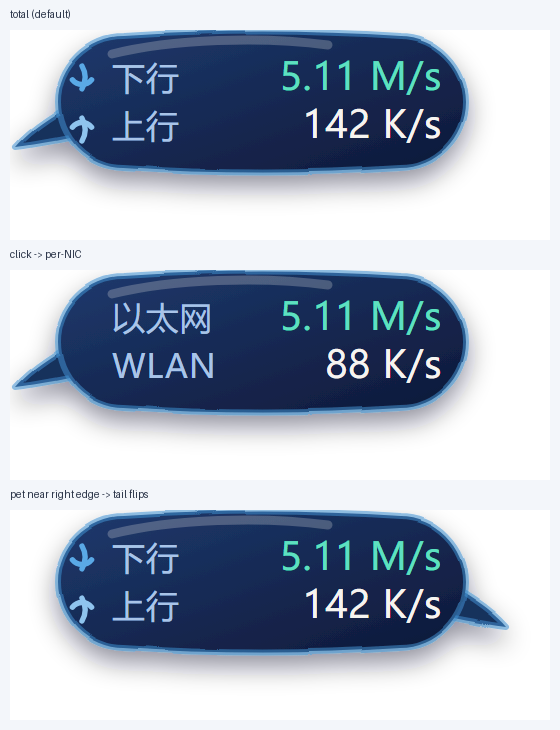
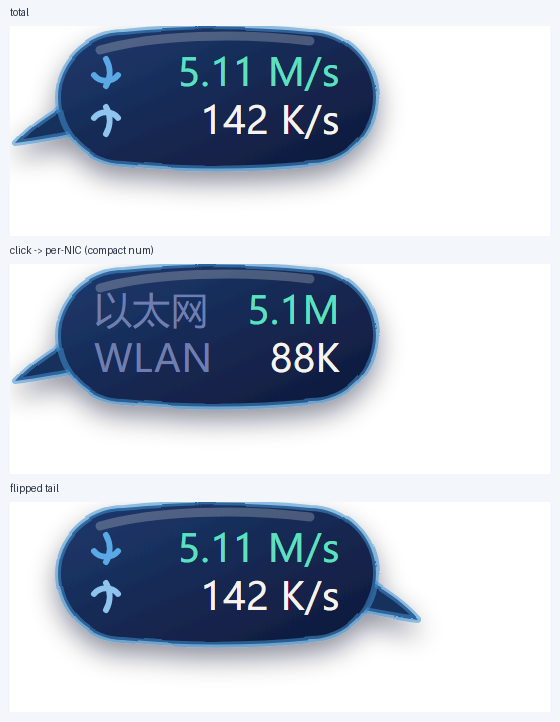
feat(pet): 网速气泡进一步紧凑化（卡 136→106，窗口 166→144）+ 修明细模式重叠与黑字 bug
用户反馈网速气泡仍太长、内容不紧凑。实测：卡片 136 宽，内容（下行↓53 K/s）只占约 73px，中段空掉约 39px —— 与余量气泡同一个病：宽度没贴合内容 + 有冗余文字标签。

改法：
- 去掉「下行/上行」文字标签：弧形箭头（一上一下）+ 青/蓝紫配色已完整表达方向，
  也是各类系统级网速挂件的通行做法。省掉 22px 标签 + 8px 间距
- 卡片 136 → 106（106 宽内可用约 66px，'99.90 M/s'(64px，覆盖约 800Mbps) 刚好放得下）
- 窗口 NET_WIN_W_LP 166 → 144（卡 106 + 左右各 14px 尾巴让位）
- 数值仍右对齐 → 位数变化时列位置稳定，不会左右跳
- 新增 fitVals()：数值超长自动降字号兜底（>800Mbps 的极端值）

修两个真 bug：
- 明细模式下『以太网』与『5.11 M/s』重叠 7px → 明细模式改用紧凑格式 fmtShort()
  （5.1M / 88K / 0K，最长约 32px），网卡名保留 4 字，两者仍有 18px 间距
- 明细模式的网卡名槽用 show() 切换会把 class 整个清空 → 文字掉回默认黑色；
  改用 showName()，可见时 class='v dim'、隐藏时 class='hide'

顺手清掉一个历史编译警告（json_response 的冗余 mut），现在构建零警告。

验证：net-fmt-test.cjs 38 项全绿；pet-engine-test.cjs 48 项全绿；
无头 Chromium 渲染三态确认（重叠就是靠预览图一眼看出来的，断言发现不了）；
优雅 /api/quit 停止应用（全程未强杀）。

diff --git a/public/net.html b/public/net.html
@@ -1,16 +1,15 @@
 <!doctype html>
-<!-- net-ver: 2026-09-18-02-anime -->
+<!-- net-ver: 2026-09-18-03-compact -->
 <html>
 <head>
 <meta charset="utf-8">
 <style>
   html,body{margin:0;padding:0;background:transparent;overflow:hidden;user-select:none}
-  /* 窗口仍是 166x56：尾巴是横向伸出的，所以不占垂直空间 —— 无需重编译 */
-  #wrap{position:absolute;left:0;top:0;width:166px;height:56px;cursor:pointer}
+  /* 窗口 144x56：卡 106x44 + 左右各 14px 尾巴让位（翻边时用另一侧） */
+  #wrap{position:absolute;left:0;top:0;width:144px;height:56px;cursor:pointer}
   /* overflow:visible 才能让阴影/抖动溢出 SVG 盒子而不被裁掉 */
   #wrap svg{display:block;overflow:visible}
   /* SVG 文字要用 fill（用 color 不生效） */
-  .k{fill:#A9C4E8;font:11px "Microsoft YaHei",sans-serif;letter-spacing:.02em}
   .v{fill:#F7F4F0;font:500 12.5px "Microsoft YaHei",sans-serif;letter-spacing:.02em;
     font-variant-numeric:tabular-nums}
   .v.dim{fill:#6F7EAD;font-weight:400}
@@ -20,44 +19,46 @@
 </head>
 <body>
 <div id="wrap">
-  <!-- 卡 136x44 饱满椭圆（两端全圆 r=22 + 上下缘微鼓）+ 左侧锥形曲线尾（朝宠物） -->
-  <svg id="netSvg" viewBox="0 0 166 56" width="166" height="56" role="img">
+  <!-- 卡 106x44 饱满椭圆（两端全圆 r=22 + 上下缘微鼓）+ 锥形曲线尾
+       不再放「下行/上行」文字：弧形箭头 + 青/蓝紫配色已经区分上下行，
+       去掉标签后卡片从 136 收到 106，中段空档从 ~39px 降到 ~26px -->
+  <svg id="netSvg" viewBox="0 0 144 56" width="144" height="56" role="img">
     <title id="netTip"></title>
     <defs>
       <linearGradient id="netGA" x1="0" y1="0" x2="1" y2="1">
         <stop offset="0" stop-color="#1E3A6E"/><stop offset="1" stop-color="#0E1838"/>
       </linearGradient>
-      <filter id="netInk" x="-16%" y="-34%" width="132%" height="176%">
+      <filter id="netInk" x="-18%" y="-34%" width="136%" height="176%">
         <feTurbulence type="fractalNoise" baseFrequency="0.022 0.03" numOctaves="2" seed="7" result="n"/>
         <feDisplacementMap in="SourceGraphic" in2="n" scale="2.4" xChannelSelector="R" yChannelSelector="G"/>
       </filter>
-      <filter id="netSh" x="-22%" y="-46%" width="144%" height="196%">
+      <filter id="netSh" x="-24%" y="-46%" width="148%" height="196%">
         <feDropShadow dx="0" dy="4" stdDeviation="4.5" flood-color="#060A20" flood-opacity="0.45"/>
       </filter>
     </defs>
     <g filter="url(#netSh)"><g filter="url(#netInk)">
       <path id="tailL" d="M30 20 C18 26 8 32 2 39 C10 38 20 36 30 34 Z"
             fill="#17305C" stroke="#4090D0" stroke-opacity="0.55" stroke-width="2" stroke-linejoin="round"/>
-      <path id="tailR" class="hide" d="M138 20 C150 26 160 32 166 39 C158 38 148 36 138 34 Z"
+      <path id="tailR" class="hide" d="M108 20 C120 26 130 32 136 39 C128 38 118 36 108 34 Z"
             fill="#17305C" stroke="#4090D0" stroke-opacity="0.55" stroke-width="2" stroke-linejoin="round"/>
-      <path d="M38 2 C68 0 100 0 130 2 C142 2 152 12 152 24 C152 36 142 46 130 46
-               C100 48 68 48 38 46 C26 46 16 36 16 24 C16 12 26 2 38 2 Z"
+      <path d="M38 2 C58 0 80 0 100 2 C112 2 122 12 122 24 C122 36 112 46 100 46
+               C80 48 58 48 38 46 C26 46 16 36 16 24 C16 12 26 2 38 2 Z"
             fill="url(#netGA)" stroke="#4090D0" stroke-opacity="0.55" stroke-width="2" stroke-linejoin="round"/>
     </g></g>
     <!-- 月牙高光：沿内侧上缘的一道弧形笔触 -->
-    <path d="M34 8 C54 3 84 2 106 5" fill="none" stroke="#F7F4F0" stroke-opacity="0.24"
+    <path d="M30 8 C48 3 76 2 100 5" fill="none" stroke="#F7F4F0" stroke-opacity="0.24"
           stroke-width="3" stroke-linecap="round"/>
-    <!-- 弧形箭头：圆头曲线，取代带锐角的箭头字形 -->
-    <g id="arrows" fill="none" stroke-width="1.8" stroke-linecap="round">
-      <path d="M24 12 C25.4 14.4 25.4 17 24 19.6" stroke="#5AA9E6"/>
-      <path d="M20.8 16.6 C22.5 18.7 25.5 18.7 27.2 16.6" stroke="#5AA9E6"/>
-      <path d="M24 37 C25.4 34.6 25.4 32 24 29.4" stroke="#8FC4EE"/>
-      <path d="M20.8 32.4 C22.5 30.3 25.5 30.3 27.2 32.4" stroke="#8FC4EE"/>
+    <!-- 弧形箭头：圆头曲线，取代带锐角的箭头字形。它现在同时承担「指示方向」与「区分上下行」 -->
+    <g id="arrows" fill="none" stroke-width="2" stroke-linecap="round">
+      <path d="M32 11 C33.6 13.8 33.6 17.2 32 20" stroke="#5AA9E6"/>
+      <path d="M28 16.4 C30 18.9 34 18.9 36 16.4" stroke="#5AA9E6"/>
+      <path d="M32 36 C33.6 33.2 33.6 29.8 32 27" stroke="#8FC4EE"/>
+      <path d="M28 30.6 C30 28.1 34 28.1 36 30.6" stroke="#8FC4EE"/>
     </g>
-    <text class="k" id="lb1" x="34" y="20">下行</text>
-    <text class="v" id="vl1" x="144" y="20" text-anchor="end">—</text>
-    <text class="k" id="lb2" x="34" y="36">上行</text>
-    <text class="v" id="vl2" x="144" y="36" text-anchor="end">—</text>
+    <text class="v" id="vl1" x="110" y="20" text-anchor="end">—</text>
+    <text class="v" id="vl2" x="110" y="36" text-anchor="end">—</text>
+    <text class="v dim hide" id="nm1" x="28" y="20"></text>
+    <text class="v dim hide" id="nm2" x="28" y="36"></text>
   </svg>
 </div>
 <script>
@@ -69,8 +70,8 @@
   var arrows = document.getElementById('arrows');
   var tailL = document.getElementById('tailL');
   var tailR = document.getElementById('tailR');
-  var lb1 = document.getElementById('lb1'), vl1 = document.getElementById('vl1');
-  var lb2 = document.getElementById('lb2'), vl2 = document.getElementById('vl2');
+  var vl1 = document.getElementById('vl1'), vl2 = document.getElementById('vl2');
+  var nm1 = document.getElementById('nm1'), nm2 = document.getElementById('nm2');
 
   /* 值 → 文字。与 Rust 侧 fmt_speed 同口径（三位有效数字，防宽度跳动） */
   function fmt(bps) {
@@ -86,14 +87,48 @@
     if (bps < 8 * K) return ' dim';
     return bps >= 5 * K * K ? ' fast' : '';
   }
-  function setV(el, txt, cls) {
-    el.textContent = txt;
-    el.setAttribute('class', 'v' + cls);
+  /* 明细模式专用紧凑格式：卡片只有 106 宽，网卡名要占左边，
+     所以数值必须短（5.11 M/s → 5.1M），否则会和网卡名撞上 */
+  function fmtShort(bps) {
+    if (!isFinite(bps) || bps < 512) return '0K';
+    if (bps < K * K) return Math.round(bps / K) + 'K';
+    var mb = bps / K / K;
+    return (mb < 10 ? mb.toFixed(1) : String(Math.round(mb))) + 'M';
   }
-
   /* 测试缝：给 devtools/net-fmt-test.cjs 用来锁定显示口径（与 Rust fmt_speed 必须一致） */
   window.__netFmt = fmt;
   window.__netLevel = level;
+  window.__netFmtShort = fmtShort;
+
+  function setV(el, txt, cls) {
+    if (el.textContent !== txt) el.textContent = txt;
+    var c = 'v' + cls;
+    if (el.getAttribute('class') !== c) el.setAttribute('class', c);
+  }
+  function show(el, on) { el.setAttribute('class', on ? '' : 'hide'); }
+  /* 网卡名槽：可见时要带上 "v dim" 样式（show() 会把 class 清空 → 文字会掉回默认黑色） */
+  function showName(el, on, txt) {
+    if (el.textContent !== (txt || '')) el.textContent = txt || '';
+    var c = on ? 'v dim' : 'hide';
+    if (el.getAttribute('class') !== c) el.setAttribute('class', c);
+  }
+
+  /* 数值位数变化时自动缩字号，避免超出卡片（106 宽内可用约 66px） */
+  var lastFit = -1;
+  function fitVals() {
+    var MAXW = 66, need = 12.5;
+    [vl1, vl2].forEach(function (el) {
+      el.setAttribute('font-size', '12.5');
+      var w = 0;
+      try { w = el.getComputedTextLength(); } catch (e) { w = 0; }
+      if (w > MAXW) need = Math.min(need, 12.5 * MAXW / w);
+    });
+    need = Math.max(9, Math.round(need * 10) / 10);
+    if (need !== lastFit) {
+      lastFit = need;
+      [vl1, vl2].forEach(function (el) { el.setAttribute('font-size', String(need)); });
+    }
+  }
 
   /* 非对称 EMA：升快（0.5）降更快（0.7），否则下载结束后要好几秒才落到 0 */
   var emaD = null, emaU = null;
@@ -107,32 +142,35 @@
   var lastD = null, lastU = null;
 
   function render(d) {
-    // 翻到宠物左侧时尾巴要朝右
-    var left = (d.side === 'left');
-    tailL.setAttribute('class', left ? 'hide' : '');
-    tailR.setAttribute('class', left ? '' : 'hide');
+    var left = (d.side === 'left');   // 翻到宠物左侧时尾巴朝右
+    show(tailL, !left);
+    show(tailR, left);
 
-    if (mode === 'detail' && Array.isArray(d.ifaces) && d.ifaces.length) {
-      arrows.setAttribute('class', 'hide');
+    var detail = (mode === 'detail' && Array.isArray(d.ifaces) && d.ifaces.length);
+    show(arrows, !detail);
+
+    if (detail) {
       var a = d.ifaces[0], b = d.ifaces[1];
-      setV(vl1, a ? fmt(a.down) : '—', a ? level(a.down) : ' dim');
-      lb1.textContent = shortName(a);
-      if (b) { setV(vl2, fmt(b.down), level(b.down)); lb2.textContent = shortName(b); }
-      else { setV(vl2, '—', ' dim'); lb2.textContent = ''; }
-      return;
+      showName(nm1, true, shortName(a));
+      showName(nm2, true, shortName(b));
+      setV(vl1, a ? fmtShort(a.down) : '—', a ? level(a.down) : ' dim');
+      setV(vl2, b ? fmtShort(b.down) : '—', b ? level(b.down) : ' dim');
+    } else {
+      showName(nm1, false);
+      showName(nm2, false);
+      var blank = d.stale || d.warm;
+      setV(vl1, blank ? '—' : fmt(emaD === null ? d.down : emaD),
+        blank ? ' dim' : level(emaD === null ? 0 : emaD));
+      setV(vl2, blank ? '—' : fmt(emaU === null ? d.up : emaU),
+        blank ? ' dim' : level(emaU === null ? 0 : emaU));
     }
-    arrows.setAttribute('class', '');
-    lb1.textContent = '下行';
-    lb2.textContent = '上行';
-    var blank = d.stale || d.warm;
-    setV(vl1, blank ? '—' : fmt(emaD === null ? d.down : emaD), blank ? ' dim' : level(emaD === null ? 0 : emaD));
-    setV(vl2, blank ? '—' : fmt(emaU === null ? d.up : emaU), blank ? ' dim' : level(emaU === null ? 0 : emaU));
-    if (tip) tip.textContent = '点击切换「总速 / 分网卡明细」· 每 ' + Math.round((d.sampleMs || 1000) / 1000) + ' 秒采样';
+    fitVals();
+    if (tip) tip.textContent = '下行 / 上行 · 点击切换「总速 / 分网卡明细」';
   }
   function shortName(x) {
     if (!x) return '';
     var s = String(x.name || '');
-    return s.length > 4 ? s.slice(0, 4) : s;   // 卡片只有 136 宽，名字必须截断
+    return s.length > 4 ? s.slice(0, 4) : s;
   }
 
   function pull() {

diff --git a/desktop/src-tauri/src/server.rs b/desktop/src-tauri/src/server.rs
@@ -381,7 +381,7 @@ fn dsh_info() -> Value {
 
 /* ---------------- API 处理 ---------------- */
 
-fn json_response(mut req: tiny_http::Request, code: u32, body: Value) {
+fn json_response(req: tiny_http::Request, code: u32, body: Value) {
     let header = Header::from_bytes("Content-Type", "application/json; charset=utf-8").unwrap();
     let header2 = Header::from_bytes("Cache-Control", "no-store").unwrap();
     let resp = Response::from_string(body.to_string())
@@ -817,9 +817,10 @@ fn sprite_bytes() -> Option<&'static [u8]> {
    口径：汇总所有「OperStatus=Up 且 非环回」网卡的增量（用户选定，不漏） */
 
 const NET_SAMPLE_MS: u64 = 1000;
-// 气泡窗尺寸（逻辑像素）：166x56 = 气泡卡 158x52 + 左侧 8px 尾巴让位 + 上下各 2px 余量。
-// 这样"透明死区"几乎等于气泡本身，不会像"把宠物窗加宽"那样多出一大片挡点击的区域。
-const NET_WIN_W_LP: i32 = 166;
+// 气泡窗尺寸（逻辑像素）：144x56 = 气泡卡 106x44 + 左右各 14px 尾巴让位（翻边时用另一侧）+ 余量。
+// 卡从 136 收到 106（去掉「下行/上行」文字标签，箭头+青/蓝紫配色已足够区分），
+// 窗口也从 166 收到 144 —— 透明死区只在卡片右侧剩 ~22px，不会多挡桌面。
+const NET_WIN_W_LP: i32 = 144;
 const NET_WIN_H_LP: i32 = 56;
 // 间隙默认值（可被 net-bubble.json 的 gapLp 覆盖，改完 2 秒内生效、不用重编译）。
 // 为什么是负数：宠物素材在画布右侧**本来就留了 23~27px 透明边**（实测 idle/waving 等行的

diff --git a/气泡视觉规范-动漫化.md b/气泡视觉规范-动漫化.md
@@ -234,18 +234,34 @@ C0 12 10 3 23 3 Z
 
 | 项 | 值 |
 |---|---|
-| 轮廓 | **136×44** 饱满椭圆（两端全圆 r=22 + 上下缘微鼓 1.5px） |
+| 轮廓 | **106×44** 饱满椭圆（两端全圆 r=22 + 上下缘微鼓 1.5px） |
 | 尾巴 | **横向**锥形曲线（朝宠物），两套：`tailL`（默认朝左）／`tailR`（宠物贴近屏幕右缘时翻边朝右），由接口 `side` 字段切换 |
 | 墨线/抖动/阴影 | 2px `#4090D0`@55% ＋ `feTurbulence`scale 2.4 ＋ `feDropShadow` dy 4 std 4.5 |
-| 月牙高光 | `M34 8 C54 3 84 2 106 5` |
-| 箭头 | **曲线圆头**代替 `↓`/`↑` 字形：<br>下 `M24 12 C25.4 14.4 25.4 17 24 19.6` ＋ 谷形 `M20.8 16.6 C22.5 18.7 25.5 18.7 27.2 16.6`（青 `#5AA9E6`）<br>上 `M24 37 C25.4 34.6 25.4 32 24 29.4` ＋ 峰形 `M20.8 32.4 C22.5 30.3 25.5 30.3 27.2 32.4`（蓝紫 `#8FC4EE`） |
-| 宽度依据 | 箭头组 11 ＋ 标签 22 ＋ 间距 ＋ **最坏数值 64**（`99.90 M/s`，覆盖到约 800 Mbps）＋ 内边距 24 → 136 |
+| 月牙高光 | `M30 8 C48 3 76 2 100 5` |
+| 箭头 | **曲线圆头**代替 `↓`/`↑` 字形，stroke 2：<br>下 `M32 11 C33.6 13.8 33.6 17.2 32 20` ＋ 谷形 `M28 16.4 C30 18.9 34 18.9 36 16.4`（青 `#5AA9E6`）<br>上 `M32 36 C33.6 33.2 33.6 29.8 32 27` ＋ 峰形 `M28 30.6 C30 28.1 34 28.1 36 30.6`（蓝紫 `#8FC4EE`） |
+| 窗口 | **144×56**（卡 106 + 左右各 14px 尾巴让位）→ 由 `NET_WIN_W_LP` 控制 |
 
-**仍然不需要重编译**：尾巴是横向伸出的，不占垂直空间，
-所以 136×44 的卡 + 纵向抖动/阴影余量正好塞进原来的 `166×56` 窗口。
-（卡片在窗口内偏移到 x=16，尾巴尖端落在 x=2；相对原来只是视觉间距多 2px，可忽略。）
+#### 7.5.1 紧凑化：去掉冗余的文字标签（关键一步）
 
-点击气泡仍是「总速 ↔ 分网卡明细」；明细模式下自动隐藏箭头、网卡名截断到 4 字。
+原先两行是 `下行 ↓ 53 K/s`，卡片 136 宽里**内容只占约 73px，中段空掉约 39px**。
+根因和余量气泡那次一样：**卡片宽度没贴合内容，还有冗余的文字标签**。
+
+- **去掉「下行 / 上行」文字**：弧形箭头（一上一下）＋ 青/蓝紫配色已经完整表达方向，
+  这也是各类系统级网速挂件的通行做法。省掉 22px 标签 + 8px 间距。
+- 卡片 **136 → 106**，窗口 **166 → 144**，中段空档 39px → 约 26px。
+- 数值仍右对齐（数字位数变化时**列位置稳定**，不会左右跳）。
+- 106 宽内可用约 66px：`99.90 M/s`（64px，覆盖到约 800 Mbps）刚好放得下；
+  再长（如 `1024.0 M/s`）由 `fitVals()` 自动降字号兜底。
+
+#### 7.5.2 明细模式（点击切换）的坑
+
+明细模式要显示「网卡名 + 数值」，而 106 宽的卡片放不下 `以太网` + `5.11 M/s`（实测会重叠 7px）。
+解决：**明细模式改用紧凑数值格式** `fmtShort()` → `5.1M` / `88K` / `0K`（最长约 32px），
+网卡名保留 4 字（`以太网` 33px），两者之间仍有 18px 间距。
+
+> ⚠ 另一个真 bug（已修）：明细模式的网卡名槽原本用 `show()` 切换，
+> 而 `show()` 会把 `class` 整个清空 → 文字掉回**默认黑色**。
+> 改用 `showName()`：可见时设 `class="v dim"`，隐藏时设 `class="hide"`。
 
 预览：`devtools/preview-net-states.png`（总速 / 明细 / 翻边三态）
 
@@ -257,6 +273,7 @@ NODE_PATH=<...>/node_modules node devtools/preview.cjs net       # 或 pet / 两
 自动定位已安装的 `chromium-headless-shell`、拦截请求从磁盘喂 `public/`、
 假造 `/api/*` 数据、按需点击后再截图，并打印关键 DOM 文本。
 **不开 GUI、不碰 WebView2** —— 这是本机"看界面"最可靠的手段。
+（本轮"网卡名与数值重叠"就是靠它一眼看出来的，光跑断言发现不了。）
 
 ---
 
